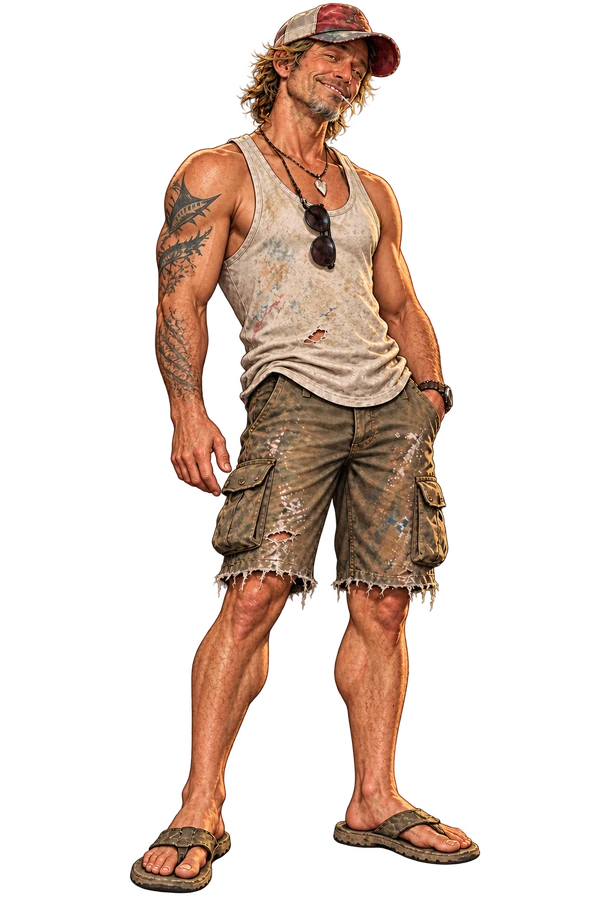
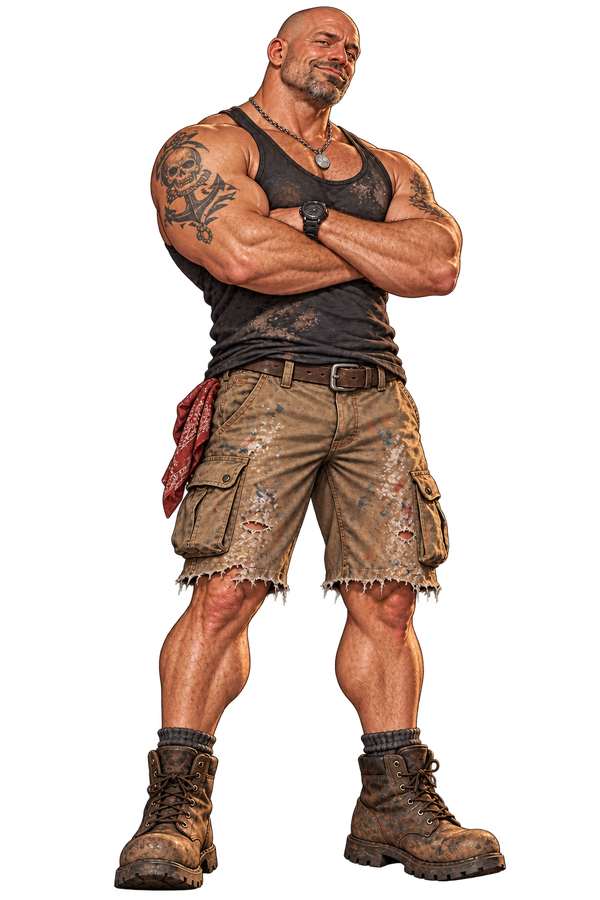
Florida Man v0.3.8: complete Peanut redesign
Replace Peanut with the approved large bald muscle-bound character, preserve v0.3.7 staging fixes, and lock the exact production sprite in CI. Validated with strict Ren'Py lint, exact asset hash checks, stable signing, and a full Android APK build.

diff --git a/README.md b/README.md
@@ -2,7 +2,7 @@
 
 Original Ren'Py adventure game set on Florida's Gulf Coast.
 
-## v0.3.7 Android test scope
+## v0.3.8 Android test scope
 
 ### Monday
 1. Opening choices and phone messages
@@ -32,7 +32,7 @@ Original Ren'Py adventure game set on Florida's Gulf Coast.
 5. Each route changes money, rent, reputation, inventory, and relationships
 6. Finish Wednesday with a route-specific ending
 
-## v0.3.7 presentation upgrade
+## v0.3.8 presentation upgrade
 - Eight illustrated Gulf Coast location backgrounds
 - Wayne, Dale, corrected Kelsey, Frank, and Peanut character sprites
 - Dedicated bottom dialogue box so narration no longer collides with HUD text
@@ -43,6 +43,7 @@ Original Ren'Py adventure game set on Florida's Gulf Coast.
 - Fixed the story-phone freeze by returning correctly from a called phone screen while still allowing map-overlay phone use
 - Scene-specific character placement instead of characters floating over every screen
 - Character clarity pass prevents Wayne, Dale, and Peanut from appearing as three near-identical full-body figures at once
+- Peanut completely redesigned as a large, bald, heavily muscled white guy in a black tank, work shorts, and boots so his silhouette is unmistakably different from Dale
 - Sand Trap scenes now use sequential POV-style staging: Dale and Peanut enter one at a time as they become relevant
 - Dialogue window is hard-anchored to the bottom of the Android layout with a visible continuation cue
 - Frank now appears in the rent/laundry scenes; Peanut appears in the battery and swordfish-delivery scenes
@@ -81,4 +82,4 @@ The checked-in keystore is intentionally a **development/test key only** so succ
 ## Running
 Open this folder as a Ren'Py project using Ren'Py 8.5.3 or install the Android artifact produced by GitHub Actions.
 
-Current milestone: validate the v0.3.7 character-staging and dialogue-layout fixes on Android, then add true expression/pose variants and a dedicated audio pass.
+Current milestone: validate the v0.3.8 Peanut redesign and existing character-staging fixes on Android, then add true expression/pose variants and a dedicated audio pass.
